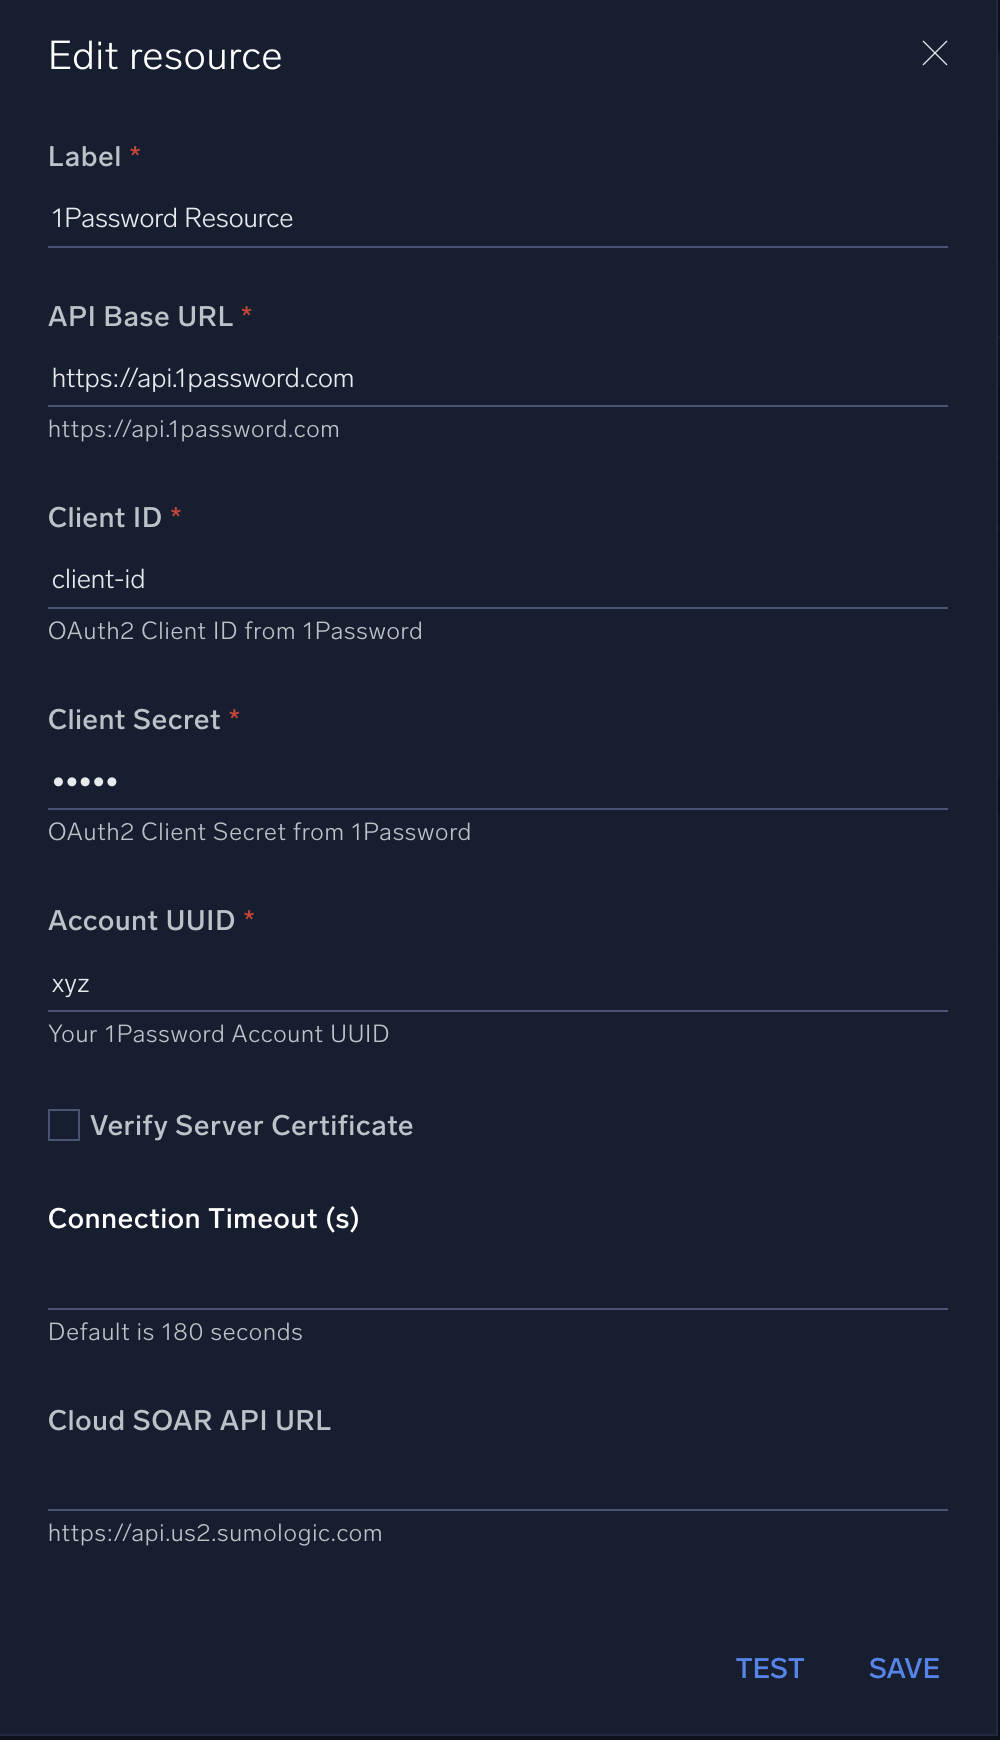
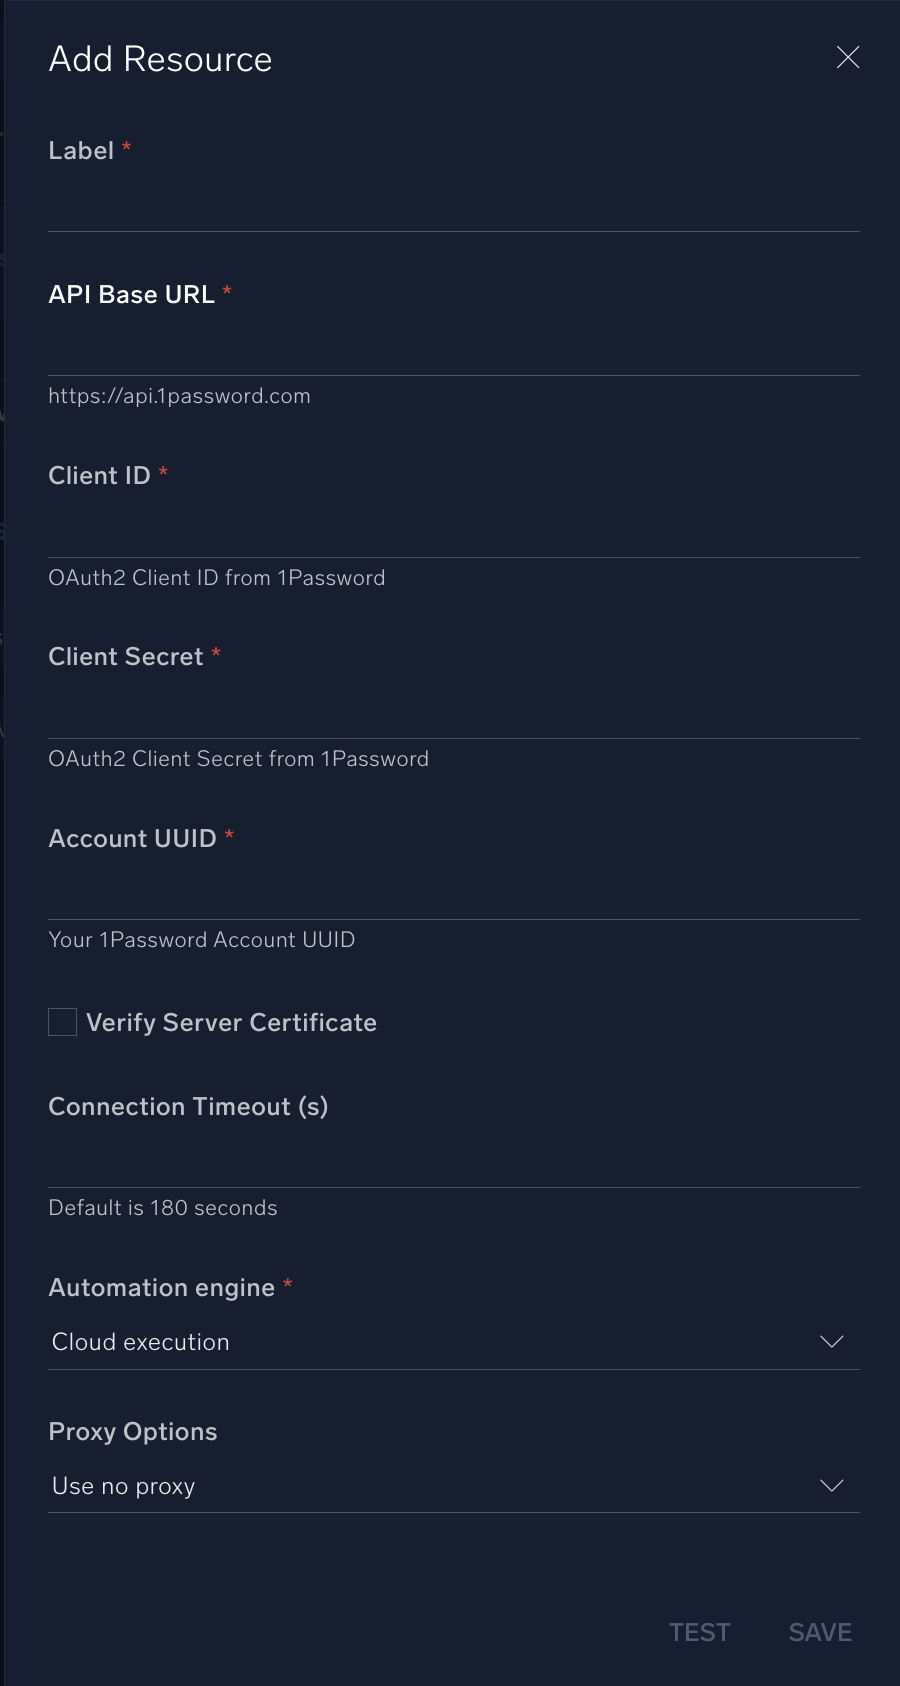
CSOAR-4667: Implemented review comments

Changed region(s): [[0.0311, 0.0308, 0.4667, 0.8944], [0.8711, 0.9561, 0.9333, 0.987], [0.7467, 0.9561, 0.8089, 0.987]]

diff --git a/docs/platform-services/automation-service/app-central/integrations/1password.md b/docs/platform-services/automation-service/app-central/integrations/1password.md
@@ -44,7 +44,7 @@ import IntegrationTimeout from '../../../../reuse/automation-service/integration
 
 <IntegrationsAuth/>
 * <IntegrationLabel/>
-* **API URL**. Enter your 1Password API URL, for example, `https://api.1password.com`
+* **API Base URL**. Enter your 1Password API URL, for example, `https://api.1password.com`
 
 * **Client ID**. Enter the Client ID.
 * **Client Secret**. Enter the Client Secret.